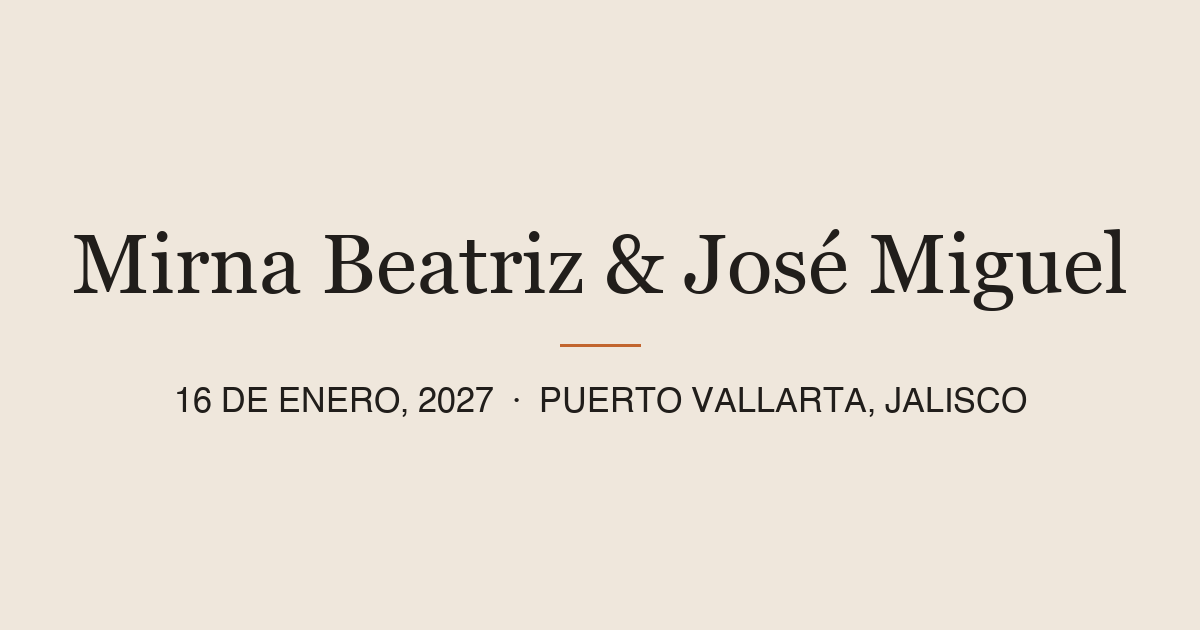
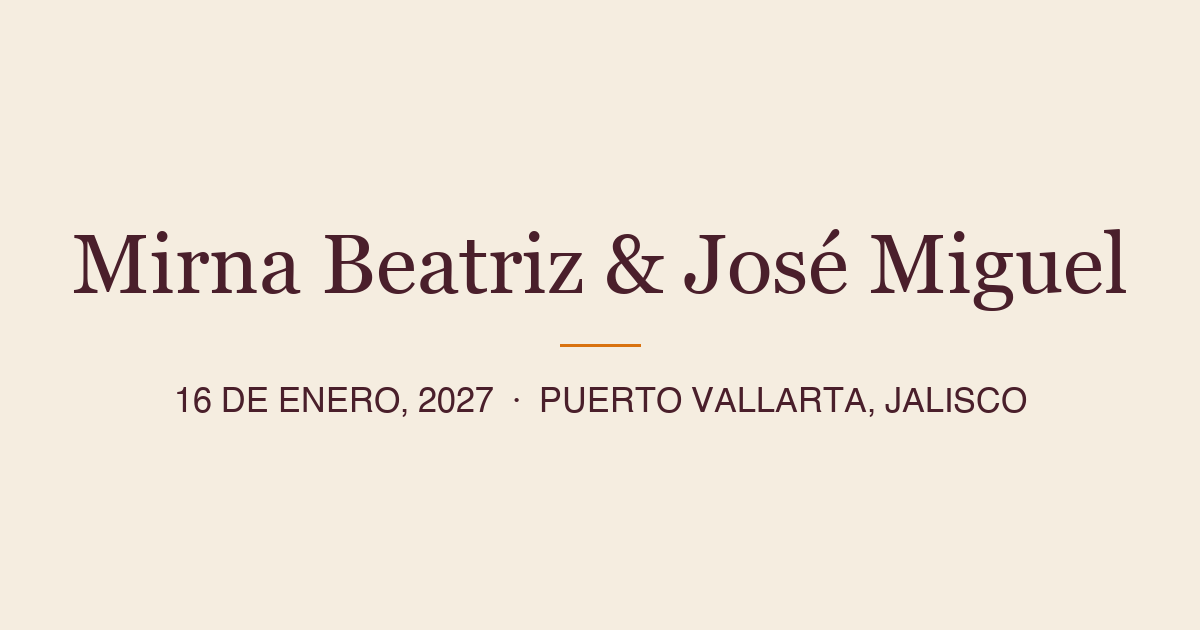
Regenerate og-image thumbnail with the new palette

diff --git a/index.html b/index.html
@@ -14,7 +14,7 @@
 -->
 <meta property="og:title" content="Mirna Beatriz & José Miguel — Nos Casamos" />
 <meta property="og:description" content="Acompáñanos a celebrar. 16 de enero, 2027 · Puerto Vallarta, Jalisco" />
-<meta property="og:image" content="assets/og/og-image.png?v=2" />
+<meta property="og:image" content="assets/og/og-image.png?v=3" />
 <meta property="og:type" content="website" />
 
 <link rel="preconnect" href="https://fonts.googleapis.com" />
